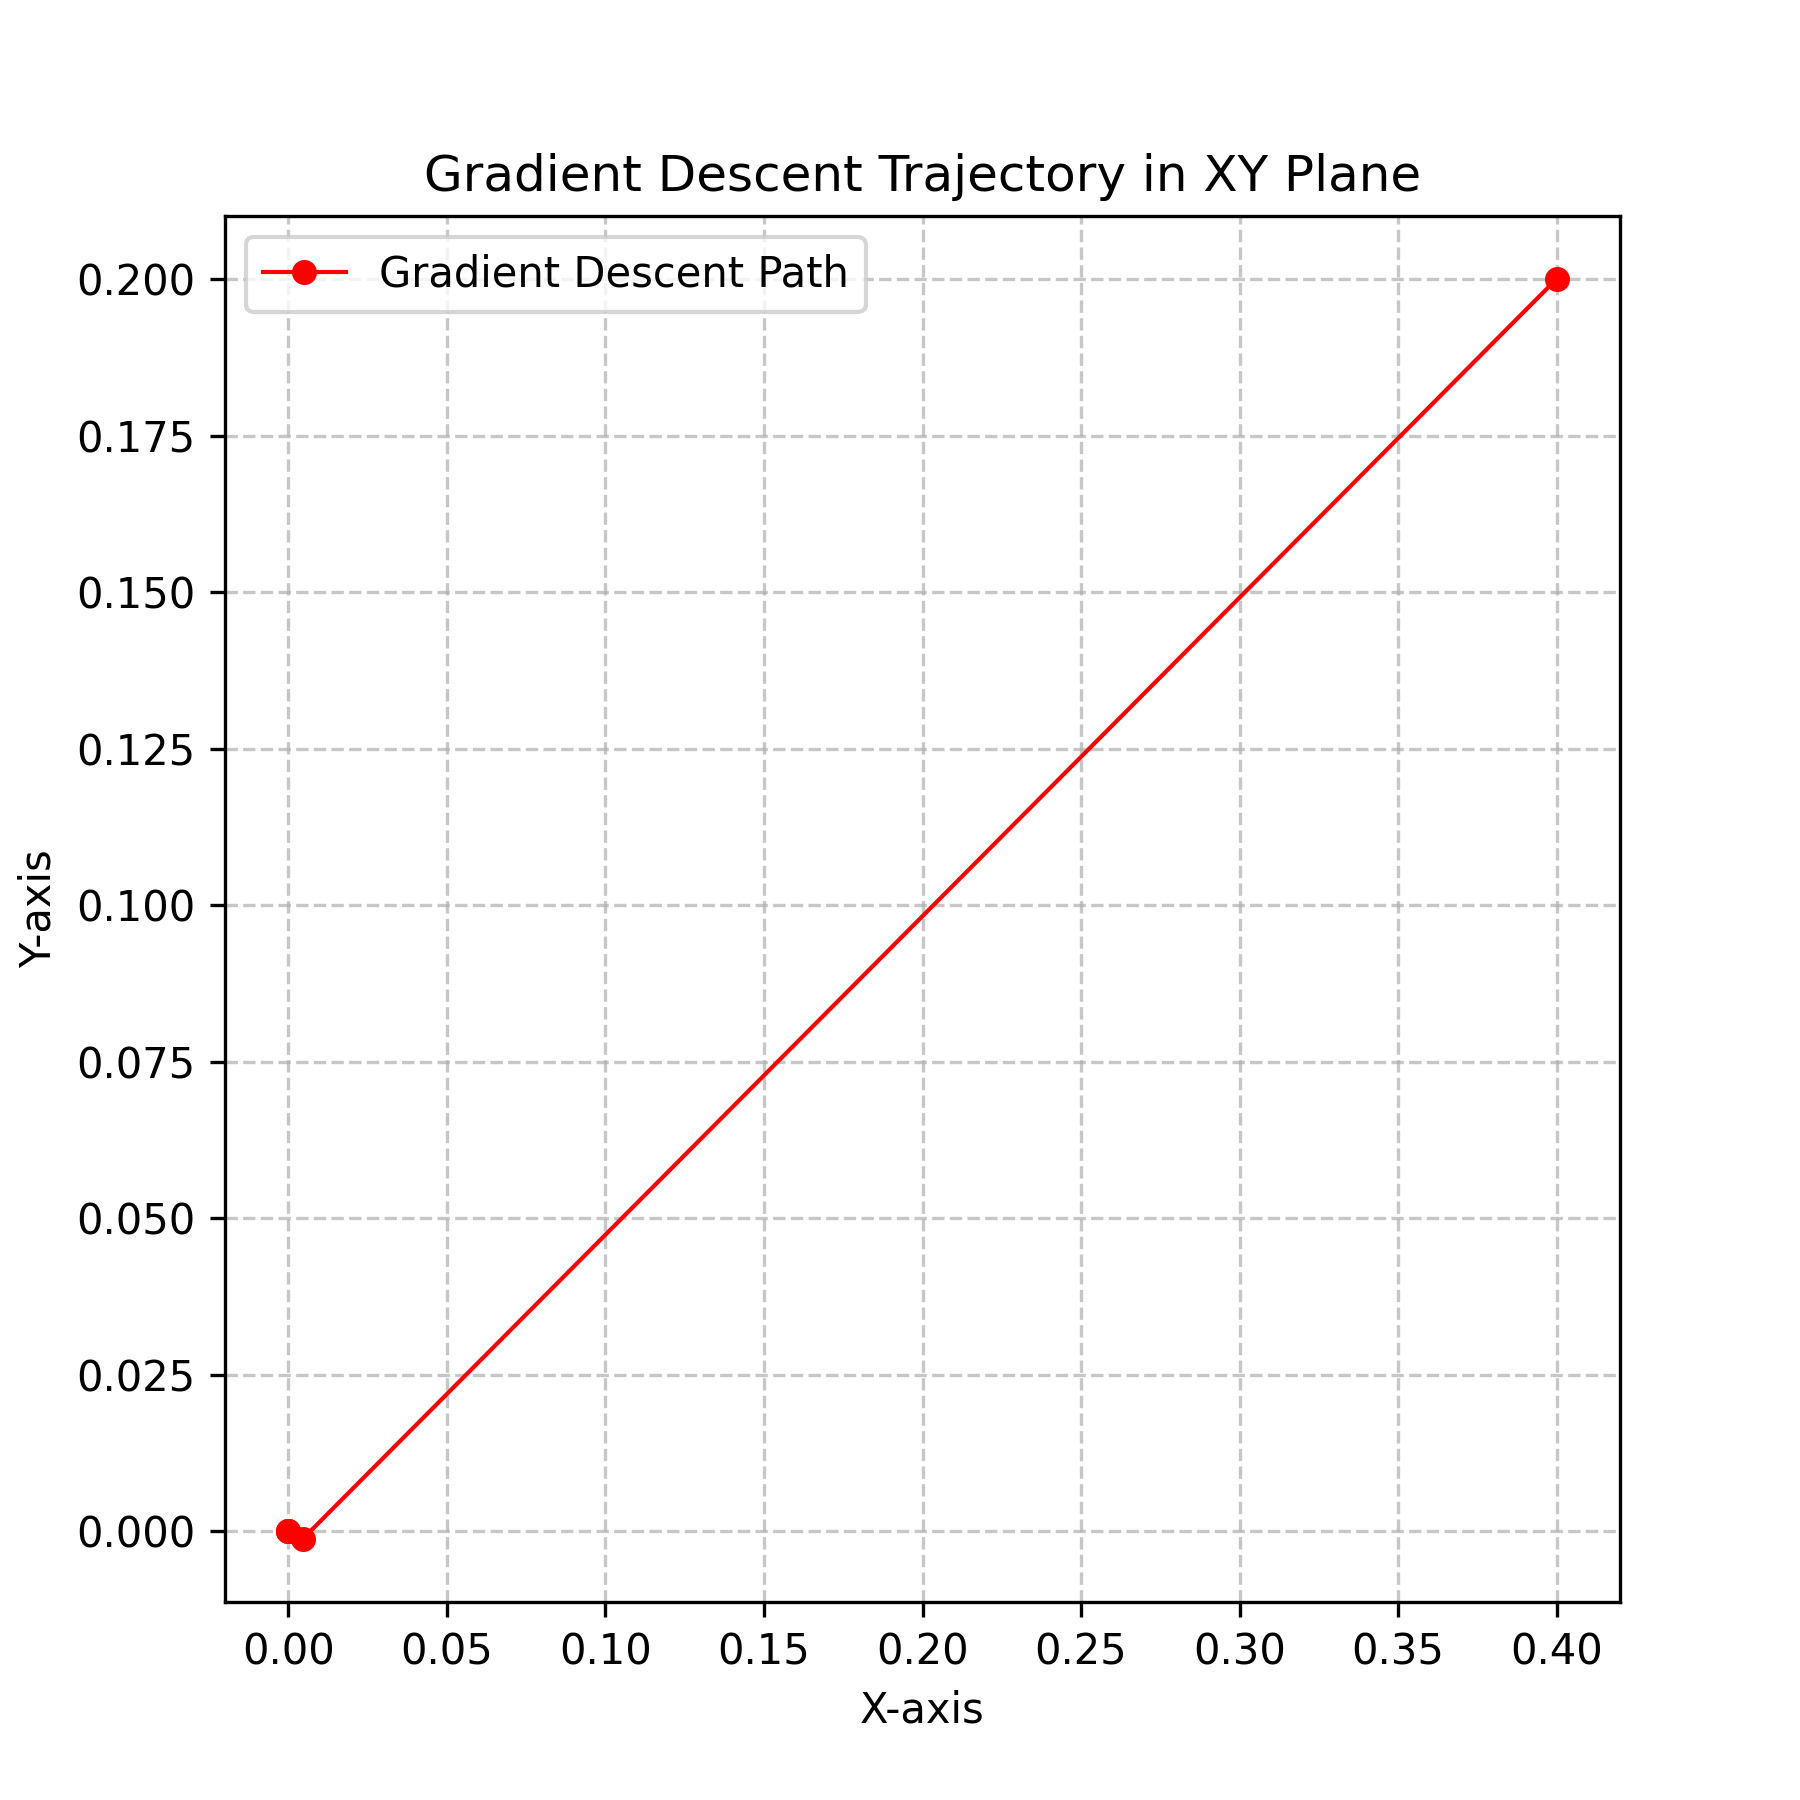
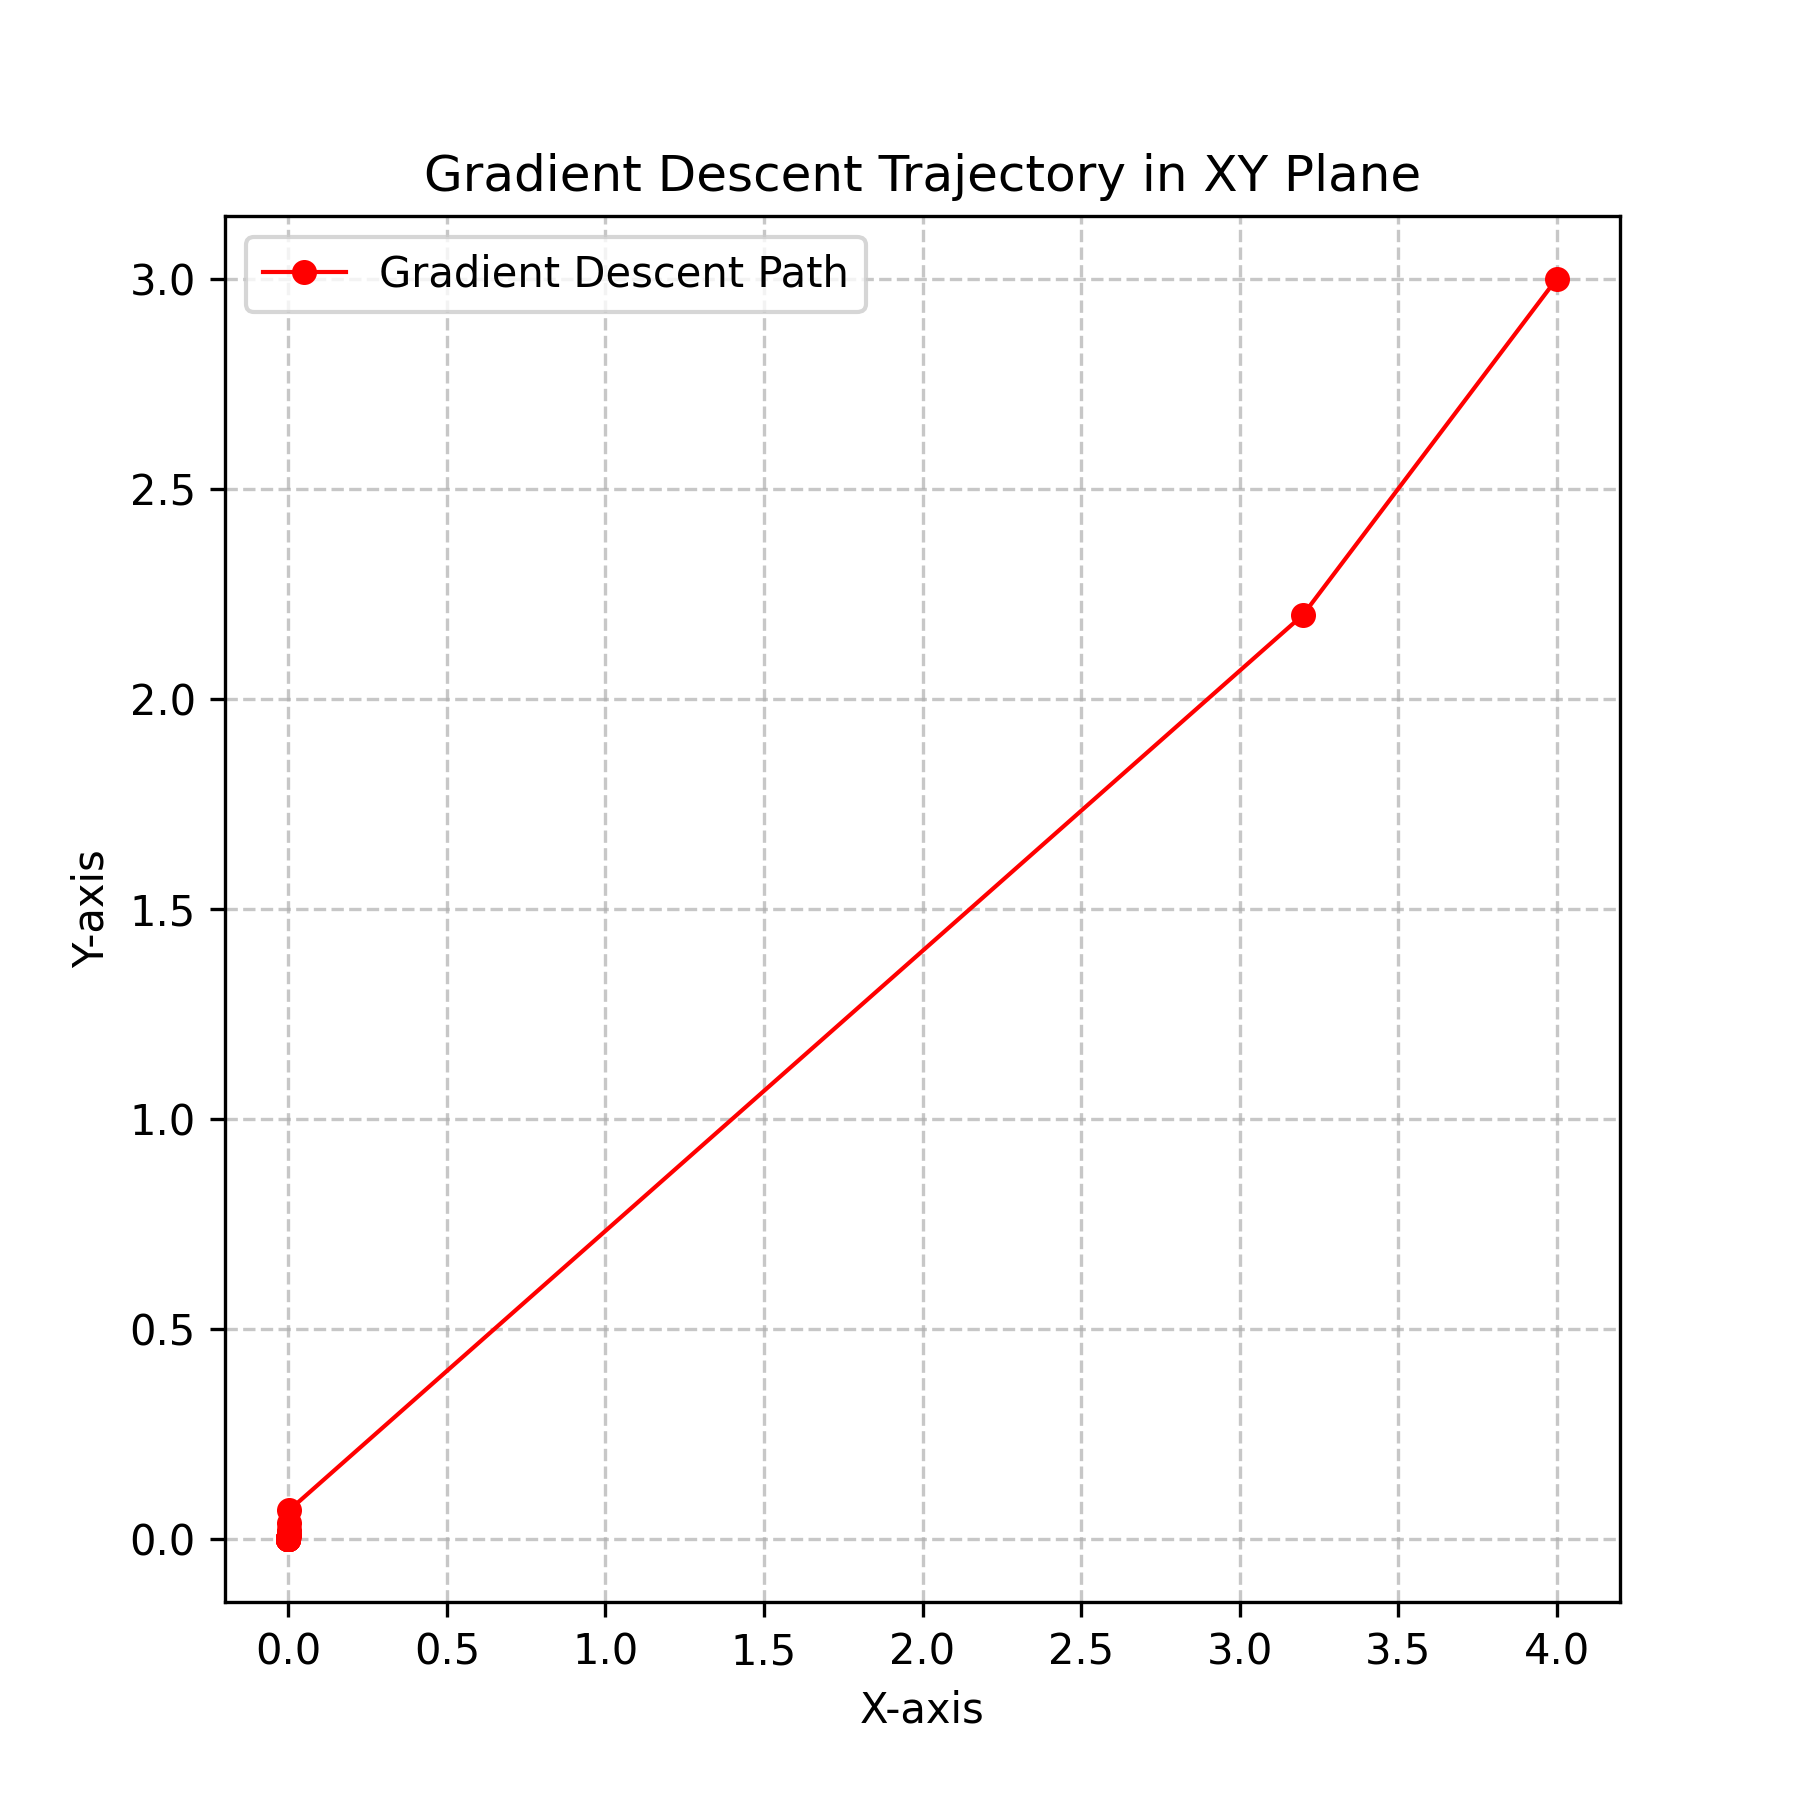
wolfe approve

diff --git a/metoptLab1/searches/wolfe.py b/metoptLab1/searches/wolfe.py
@@ -2,28 +2,28 @@ import numpy as np
 from .shared import differentiable_function, derivative_x, derivative_y, global_epsilon
 
 
-def wolfe_line_search(x: float, y: float, direction: np.ndarray[float],
-                      alpha_init: float = 1.0, c1: float = 1e-4,
-                      c2: float = 0.9, max_iters: int = 20) -> float:
+def wolfe_line_search(x, y, alpha_init=0.8, c1=1e-4, c2=0.5, max_iters=1000):
     alpha = alpha_init
     f_current = differentiable_function(x, y)
-    grad_current = np.array([derivative_x(x, y), derivative_y(x, y)])
-    slope = c1 * np.dot(grad_current, direction)
+    grad = np.array([derivative_x(x, y), derivative_y(x, y)])
+    direction = -grad
+    derivative = np.dot(grad, direction)
 
     for _ in range(max_iters):
-        x_new: float = float(x + alpha * direction[0])
-        y_new: float = float(y + alpha * direction[1])
+        x_new = x + alpha * direction[0]
+        y_new = y + alpha * direction[1]
         f_new = differentiable_function(x_new, y_new)
-        grad_new = np.array([derivative_x(x_new, y_new), derivative_y(x_new, y_new)])
+        grad = np.array([derivative_x(x_new, y_new), derivative_y(x_new, y_new)])
+        direction = -grad
+        derivative_new = np.dot(grad, direction)
 
-        if f_new > f_current + alpha * slope:
+        if f_new > f_current + alpha * c1 * derivative:
             alpha *= 0.5
             continue
 
-        if np.dot(grad_new, direction) < c2 * np.dot(grad_current, direction):
-            alpha *= 1.5
-            continue
+        if abs(derivative_new) >= c2 * abs(derivative):
+            return alpha
 
-        return alpha
+        alpha *= 1.5
 
     return alpha

diff --git a/metoptLab1/searches/main.py b/metoptLab1/searches/main.py
@@ -26,13 +26,13 @@ def gradient_descent(initial_point: Tuple[float, float], method: str, max_iter: 
         if method == 'armijo':
             alpha = armijo_line_search(x, y, **kwargs)
         elif method == 'wolfe':
-            alpha = wolfe_line_search(x, y, direction, **kwargs)
+            alpha = wolfe_line_search(x, y, **kwargs)
         elif method == 'golden':
             alpha = golden_section_search(x, y, direction, **kwargs)
         elif method == 'ternary':
             alpha = ternary_line_search(x, y, direction, **kwargs)
         else:
-            alpha = kwargs.get('learning_rate', 0.5)
+            alpha = kwargs.get('learning_rate', 0.3)
 
         x_new = x + alpha * direction[0]
         y_new = y + alpha * direction[1]
@@ -49,4 +49,4 @@ def gradient_descent(initial_point: Tuple[float, float], method: str, max_iter: 
 def find_minimum(initial_point: Tuple[float, float]) -> tuple[
     Union[Union[float, ndarray[Any, dtype[unsignedinteger[Any]]]], Any], Union[float, Any], list[
         Union[tuple[float, float], tuple[Union[ndarray[Any, dtype[unsignedinteger[Any]]], Any], Any]]]]:
-    return gradient_descent(initial_point, method='armijo', max_iter=1000)
+    return gradient_descent(initial_point, method='wolfe', max_iter=1000)

diff --git a/metoptLab1/searches/armijo.py b/metoptLab1/searches/armijo.py
@@ -1,8 +1,8 @@
 import numpy as np
 from .shared import differentiable_function, derivative_x, derivative_y
 
-def armijo_line_search(x, y, step=0.5, c1=1e-4, q=0.5, max_iters=1000):
-    alpha = step
+def armijo_line_search(x, y, alpha_init=0.5, c1=1e-4, q=0.5, max_iters=1000):
+    alpha = alpha_init
     f_current = differentiable_function(x, y)
     grad = np.array([derivative_x(x, y), derivative_y(x, y)])
     direction = -grad

diff --git a/metoptLab1/main.py b/metoptLab1/main.py
@@ -7,7 +7,7 @@ from searches.shared import differentiable_function
 # 1, 1
 # 4, 3
 if __name__ == '__main__':
-    initial_point = (0.4, 0.2)
+    initial_point = (4, 3)
 
     min_x, min_y, trajectory = find_minimum(initial_point)
     print(trajectory)
